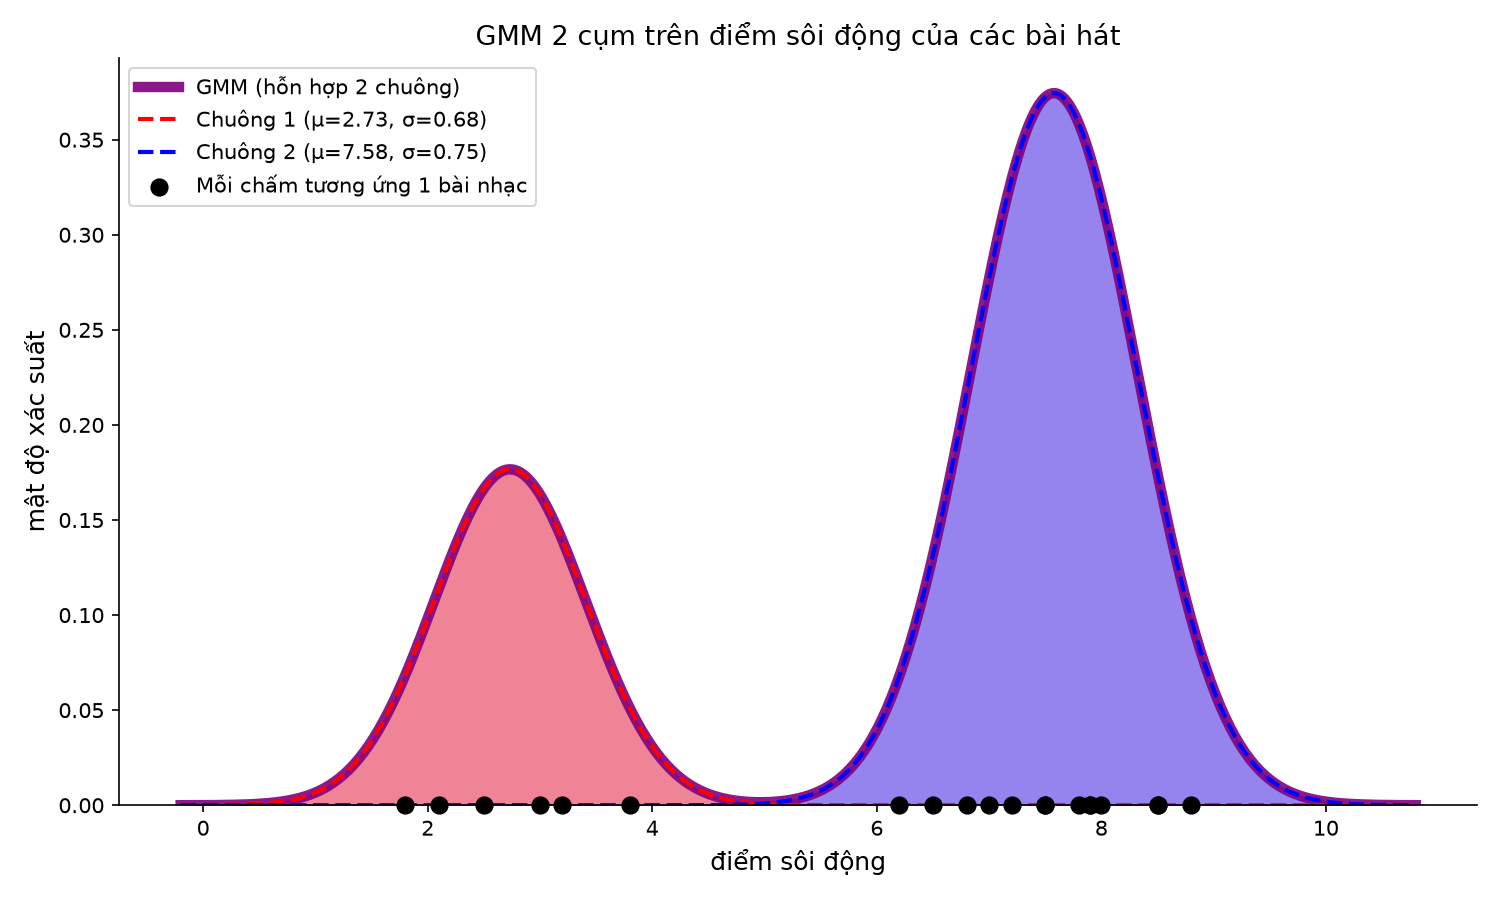
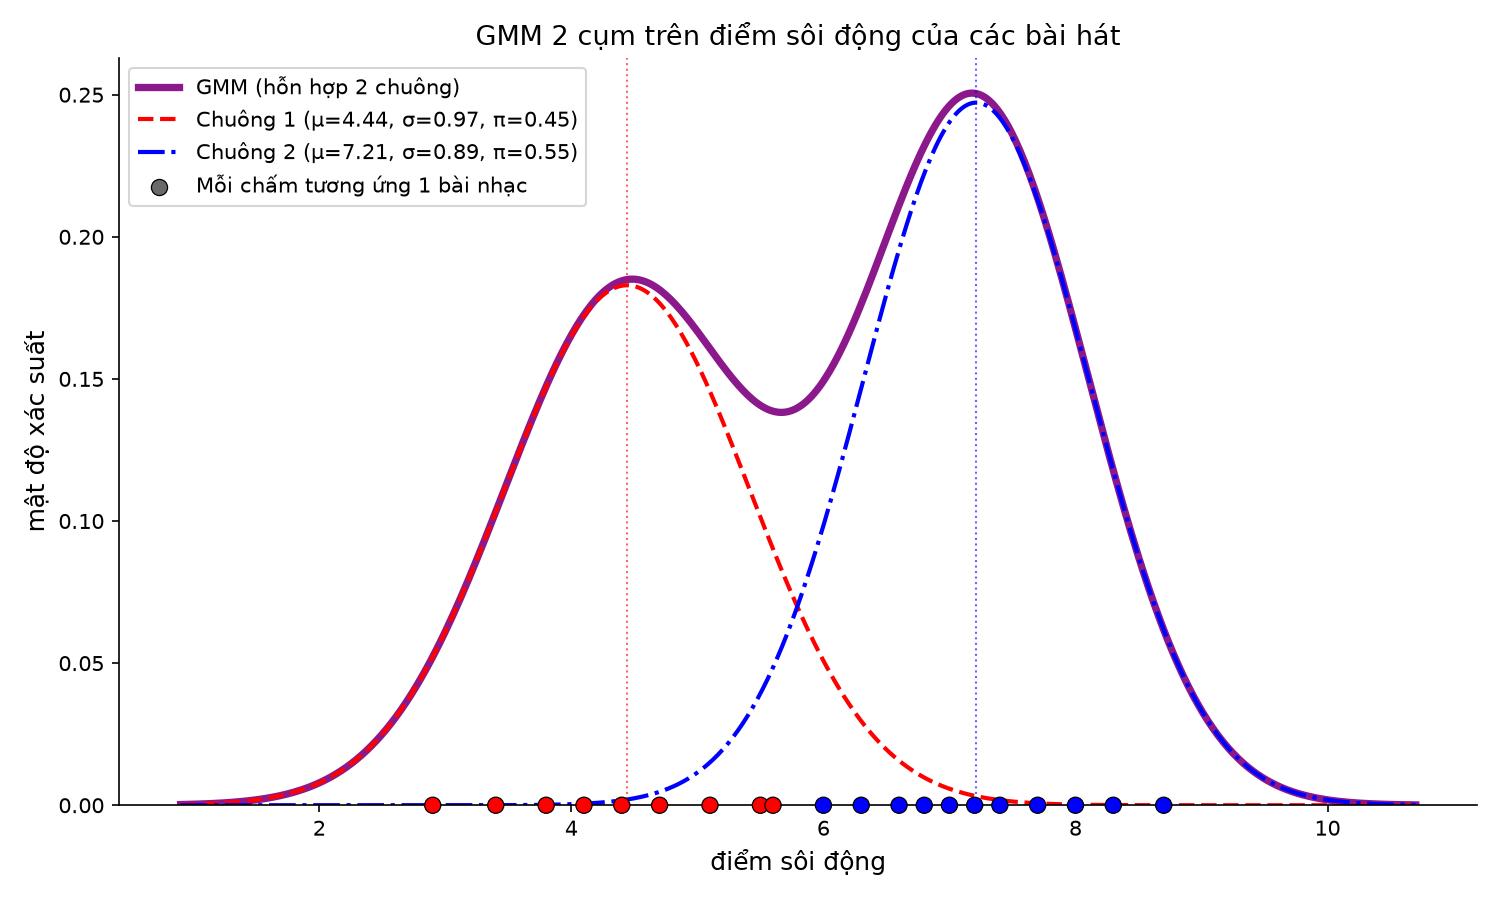
Make the two GMM components overlap and plot outlines only
Rescore diemSoiDong so the two clusters share a transition zone around 5-6
instead of sitting far apart, and drop the area fills: each bell and the
mixture are now drawn as distinct lines (red dashed, blue dash-dot, thick
purple) with mean markers and cluster-colored dots.

Claude-Session: https://claude.ai/code/session_01PWmJ8yavHZR52Zw4ynvAGD

diff --git a/gmm_baihat.py b/gmm_baihat.py
@@ -40,22 +40,26 @@ mixture = bell1 + bell2
 
 fig, ax = plt.subplots(figsize=(10, 6))
 
-# Mô hình GMM kết quả (tím) - vẽ nền dày để thấy rõ dưới 2 chuông
-ax.fill_between(grid, mixture, color="purple", alpha=0.20)
-ax.plot(grid, mixture, color="purple", lw=5, alpha=0.9,
+# Mô hình GMM kết quả (tím) - đường dày, liền nét
+ax.plot(grid, mixture, color="purple", lw=3.5, alpha=0.9,
         label="GMM (hỗn hợp 2 chuông)")
 
-# Chuông 1 (đỏ) và chuông 2 (xanh)
-ax.fill_between(grid, bell1, color="red", alpha=0.35)
+# Chuông 1 (đỏ, nét đứt) và chuông 2 (xanh, nét gạch-chấm)
 ax.plot(grid, bell1, color="red", lw=2, ls="--",
-        label=f"Chuông 1 (μ={means[0]:.2f}, σ={stds[0]:.2f})")
-ax.fill_between(grid, bell2, color="blue", alpha=0.35)
-ax.plot(grid, bell2, color="blue", lw=2, ls="--",
-        label=f"Chuông 2 (μ={means[1]:.2f}, σ={stds[1]:.2f})")
+        label=f"Chuông 1 (μ={means[0]:.2f}, σ={stds[0]:.2f}, π={weights[0]:.2f})")
+ax.plot(grid, bell2, color="blue", lw=2, ls="-.",
+        label=f"Chuông 2 (μ={means[1]:.2f}, σ={stds[1]:.2f}, π={weights[1]:.2f})")
 
-# Các điểm dữ liệu trên trục X: mỗi chấm = 1 bài hát
-ax.scatter(X.ravel(), np.zeros_like(X.ravel()), s=60, color="black",
-           zorder=5, clip_on=False, label="Mỗi chấm tương ứng 1 bài nhạc")
+# Đánh dấu tâm mỗi chuông
+ax.axvline(means[0], color="red", lw=1, ls=":", alpha=0.6)
+ax.axvline(means[1], color="blue", lw=1, ls=":", alpha=0.6)
+
+# Các điểm dữ liệu trên trục X: mỗi chấm = 1 bài hát, tô theo cụm được gán
+colors = np.where(df["cum"].to_numpy() == 1, "red", "blue")
+ax.scatter(X.ravel(), np.zeros_like(X.ravel()), s=60, c=colors,
+           edgecolors="black", linewidths=0.6, zorder=5, clip_on=False)
+ax.scatter([], [], s=60, c="dimgray", edgecolors="black", linewidths=0.6,
+           label="Mỗi chấm tương ứng 1 bài nhạc")
 
 ax.set_xlabel("điểm sôi động", fontsize=12)
 ax.set_ylabel("mật độ xác suất", fontsize=12)
